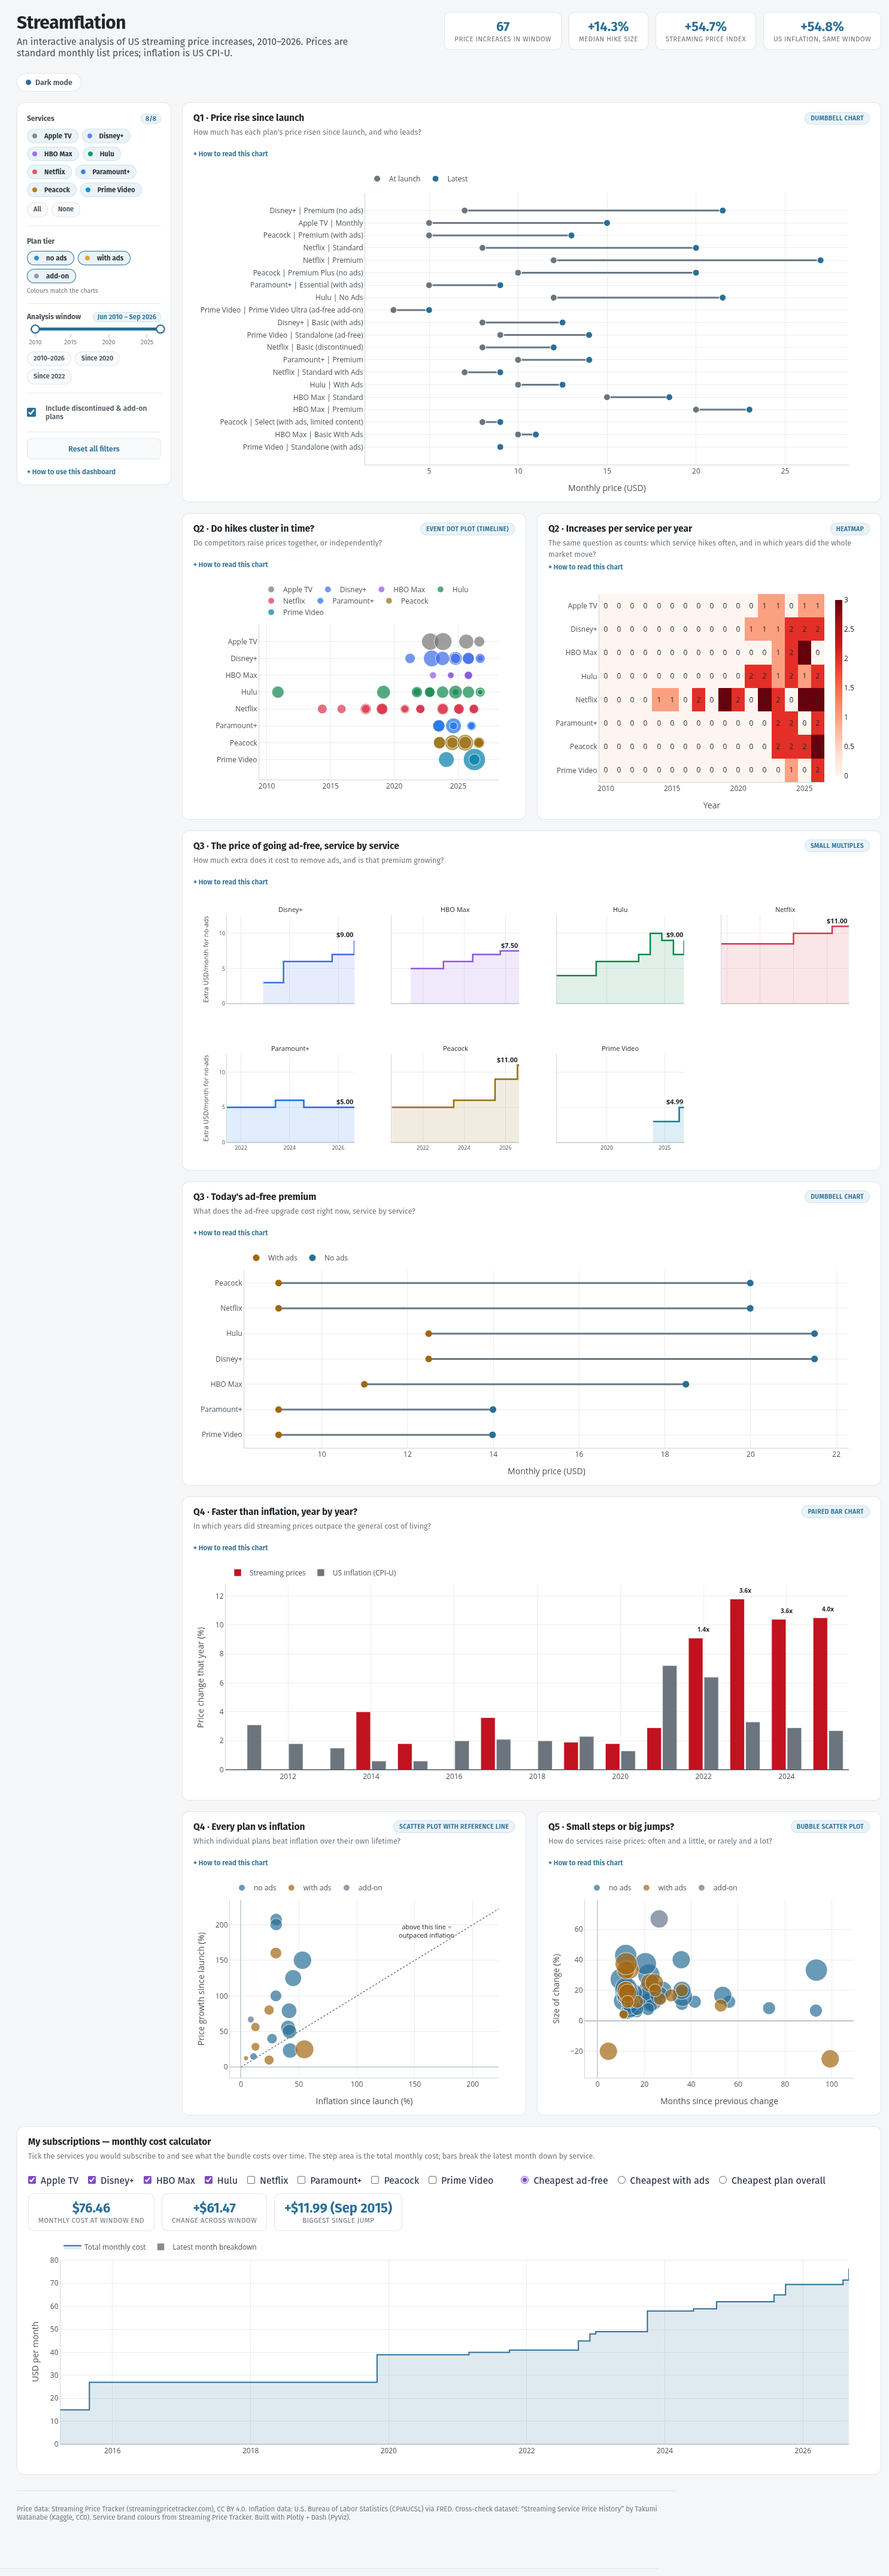
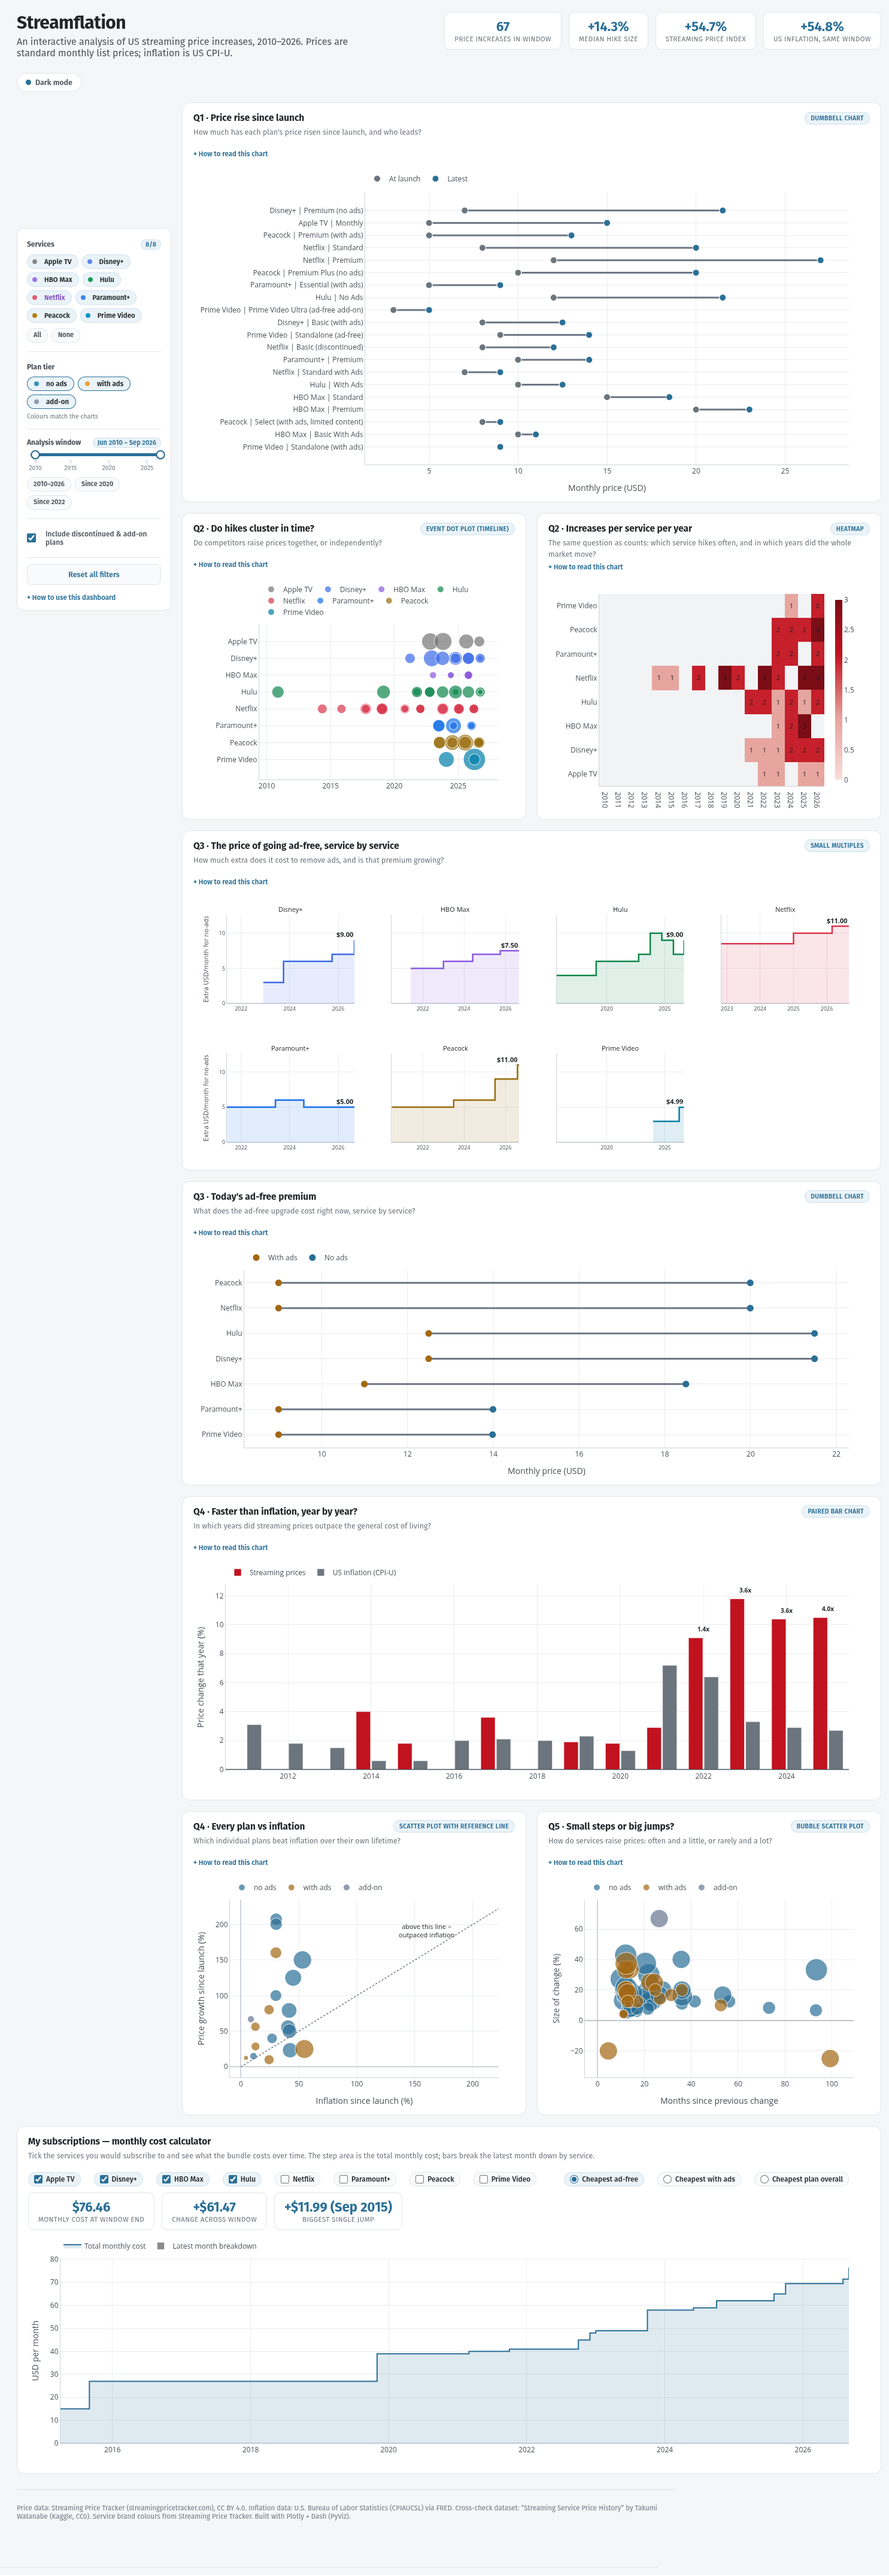
Fix heatmap readability in dark mode
px.imshow hardcoded a white low end on the Reds scale and bright cell text,
so the many zero cells were white-on-white on the dark card and the plot
background clashed with it.

Build the heatmap as go.Heatmap with a theme-specific ramp: dark slate at
zero through to light red at 3 in dark mode, pale grey to deep red in light
mode. Cell text is white in dark mode and near-black in light mode.

Plotly cannot colour heatmap text per cell, so zeros are left blank: the cell
colour and hover tooltip already carry that information, and a pale zero
cell with pale text was the original readability problem. Positive cells
still show their count.

apply_theme now preserves a builder-supplied text colour instead of
overwriting it for every trace.

diff --git a/app/figures.py b/app/figures.py
@@ -175,9 +175,11 @@ def apply_theme(fig: go.Figure, dark: bool = False) -> go.Figure:
             if ml is not None and isinstance(getattr(ml, "color", None), str):
                 tr.marker.line.color = conv(ml.color)
 
-    # data labels written by imshow/text traces, and subplot titles
+    # Data labels: only set a single colour when the builder did not supply
+    # per-cell colours (the heatmap sets its own zero-vs-positive colours).
     for tr in fig.data:
-        if getattr(tr, "textfont", None) is not None:
+        tf = getattr(tr, "textfont", None)
+        if tf is not None and getattr(tf, "color", None) is None:
             tr.textfont = dict(color=t["text"])
     if fig.layout.annotations:
         fig.update_annotations(font_color=t["text"])
@@ -287,7 +289,7 @@ def fig_timeline(events: pd.DataFrame, service_colors: dict[str, str],
 # ---------------------------------------------------------------------------
 # Q2b — service x year heatmap
 # ---------------------------------------------------------------------------
-def fig_heatmap(events: pd.DataFrame) -> go.Figure:
+def fig_heatmap(events: pd.DataFrame, dark: bool = False) -> go.Figure:
     if events.empty:
         return empty_fig()
     hikes = events[events["change_usd"] > 0].copy()
@@ -295,10 +297,38 @@ def fig_heatmap(events: pd.DataFrame) -> go.Figure:
     matrix = pd.crosstab(hikes["service_name"], hikes["year"])
     matrix = matrix.reindex(columns=range(2010, 2027), fill_value=0)
     matrix.index.name = None  # avoid a stray "service_name" axis label
-    fig = px.imshow(matrix, text_auto=True, color_continuous_scale="Reds", aspect="auto",
-                    labels=dict(x="Year", y="", color=""))
-    fig.update_traces(hovertemplate="%{y}<br>%{x}: %{z} price increase(s)<extra></extra>")
-    fig.update_layout(coloraxis_colorbar=dict(thickness=12))
+
+    t = THEME["dark" if dark else "light"]
+    # px.imshow paints zero cells (and their text) white by default, which is
+    # illegible on the dark card. Use a dark-sequence ramp in dark mode and set
+    # the text colour per theme explicitly.
+    scale = (
+        [[0, "#2a3038"], [0.01, "#4a2530"], [0.35, "#8c2d3a"],
+         [0.7, "#c1121f"], [1, "#ff8787"]] if dark else
+        [[0, "#f1f3f5"], [0.01, "#fadbd8"], [0.35, "#e6a29c"],
+         [0.7, "#c1121f"], [1, "#7b0d16"]]
+    )
+
+    # Plotly cannot colour heatmap text per cell, so leave zeros blank: colour
+    # and hover already say "no change", and the pale/light zero cell plus pale
+    # text was unreadable in dark mode. Positive cells get white text.
+    cell_text = [[str(v) if v > 0 else "" for v in row] for row in matrix.values]
+
+    fig = go.Figure(go.Heatmap(
+        z=matrix.values,
+        x=matrix.columns.astype(str),
+        y=matrix.index.tolist(),
+        text=cell_text,
+        texttemplate="%{text}",
+        textfont=dict(size=11, color="#ffffff" if dark else "#1a1a1a"),
+        colorscale=scale,
+        zmin=0, zmax=3,
+        showscale=True,
+        colorbar=dict(thickness=12,
+                      tickfont=dict(color=t["text_dim"]),
+                      title=dict(font=dict(color=t["text_dim"]))),
+        hovertemplate="%{y}<br>%{x}: %{z} price increase(s)<extra></extra>",
+    ))
     return _layout(fig, height=CHART_H)
 
 

diff --git a/app/app.py b/app/app.py
@@ -328,7 +328,7 @@ def update_all(services, tiers, window, advanced, theme):
     figs = [
         fig_dumbbell(summary),
         fig_timeline(ev_w, DATA["service_colors"], dark=dark),
-        fig_heatmap(ev_w),
+        fig_heatmap(ev_w, dark=dark),
         fig_hike_scatter(ev_w, dark=dark),
         fig_gap_lines(gap_w, DATA["service_colors"], cols=4, dark=dark),
         fig_gap_dumbbell(gap_w, dark=dark),
